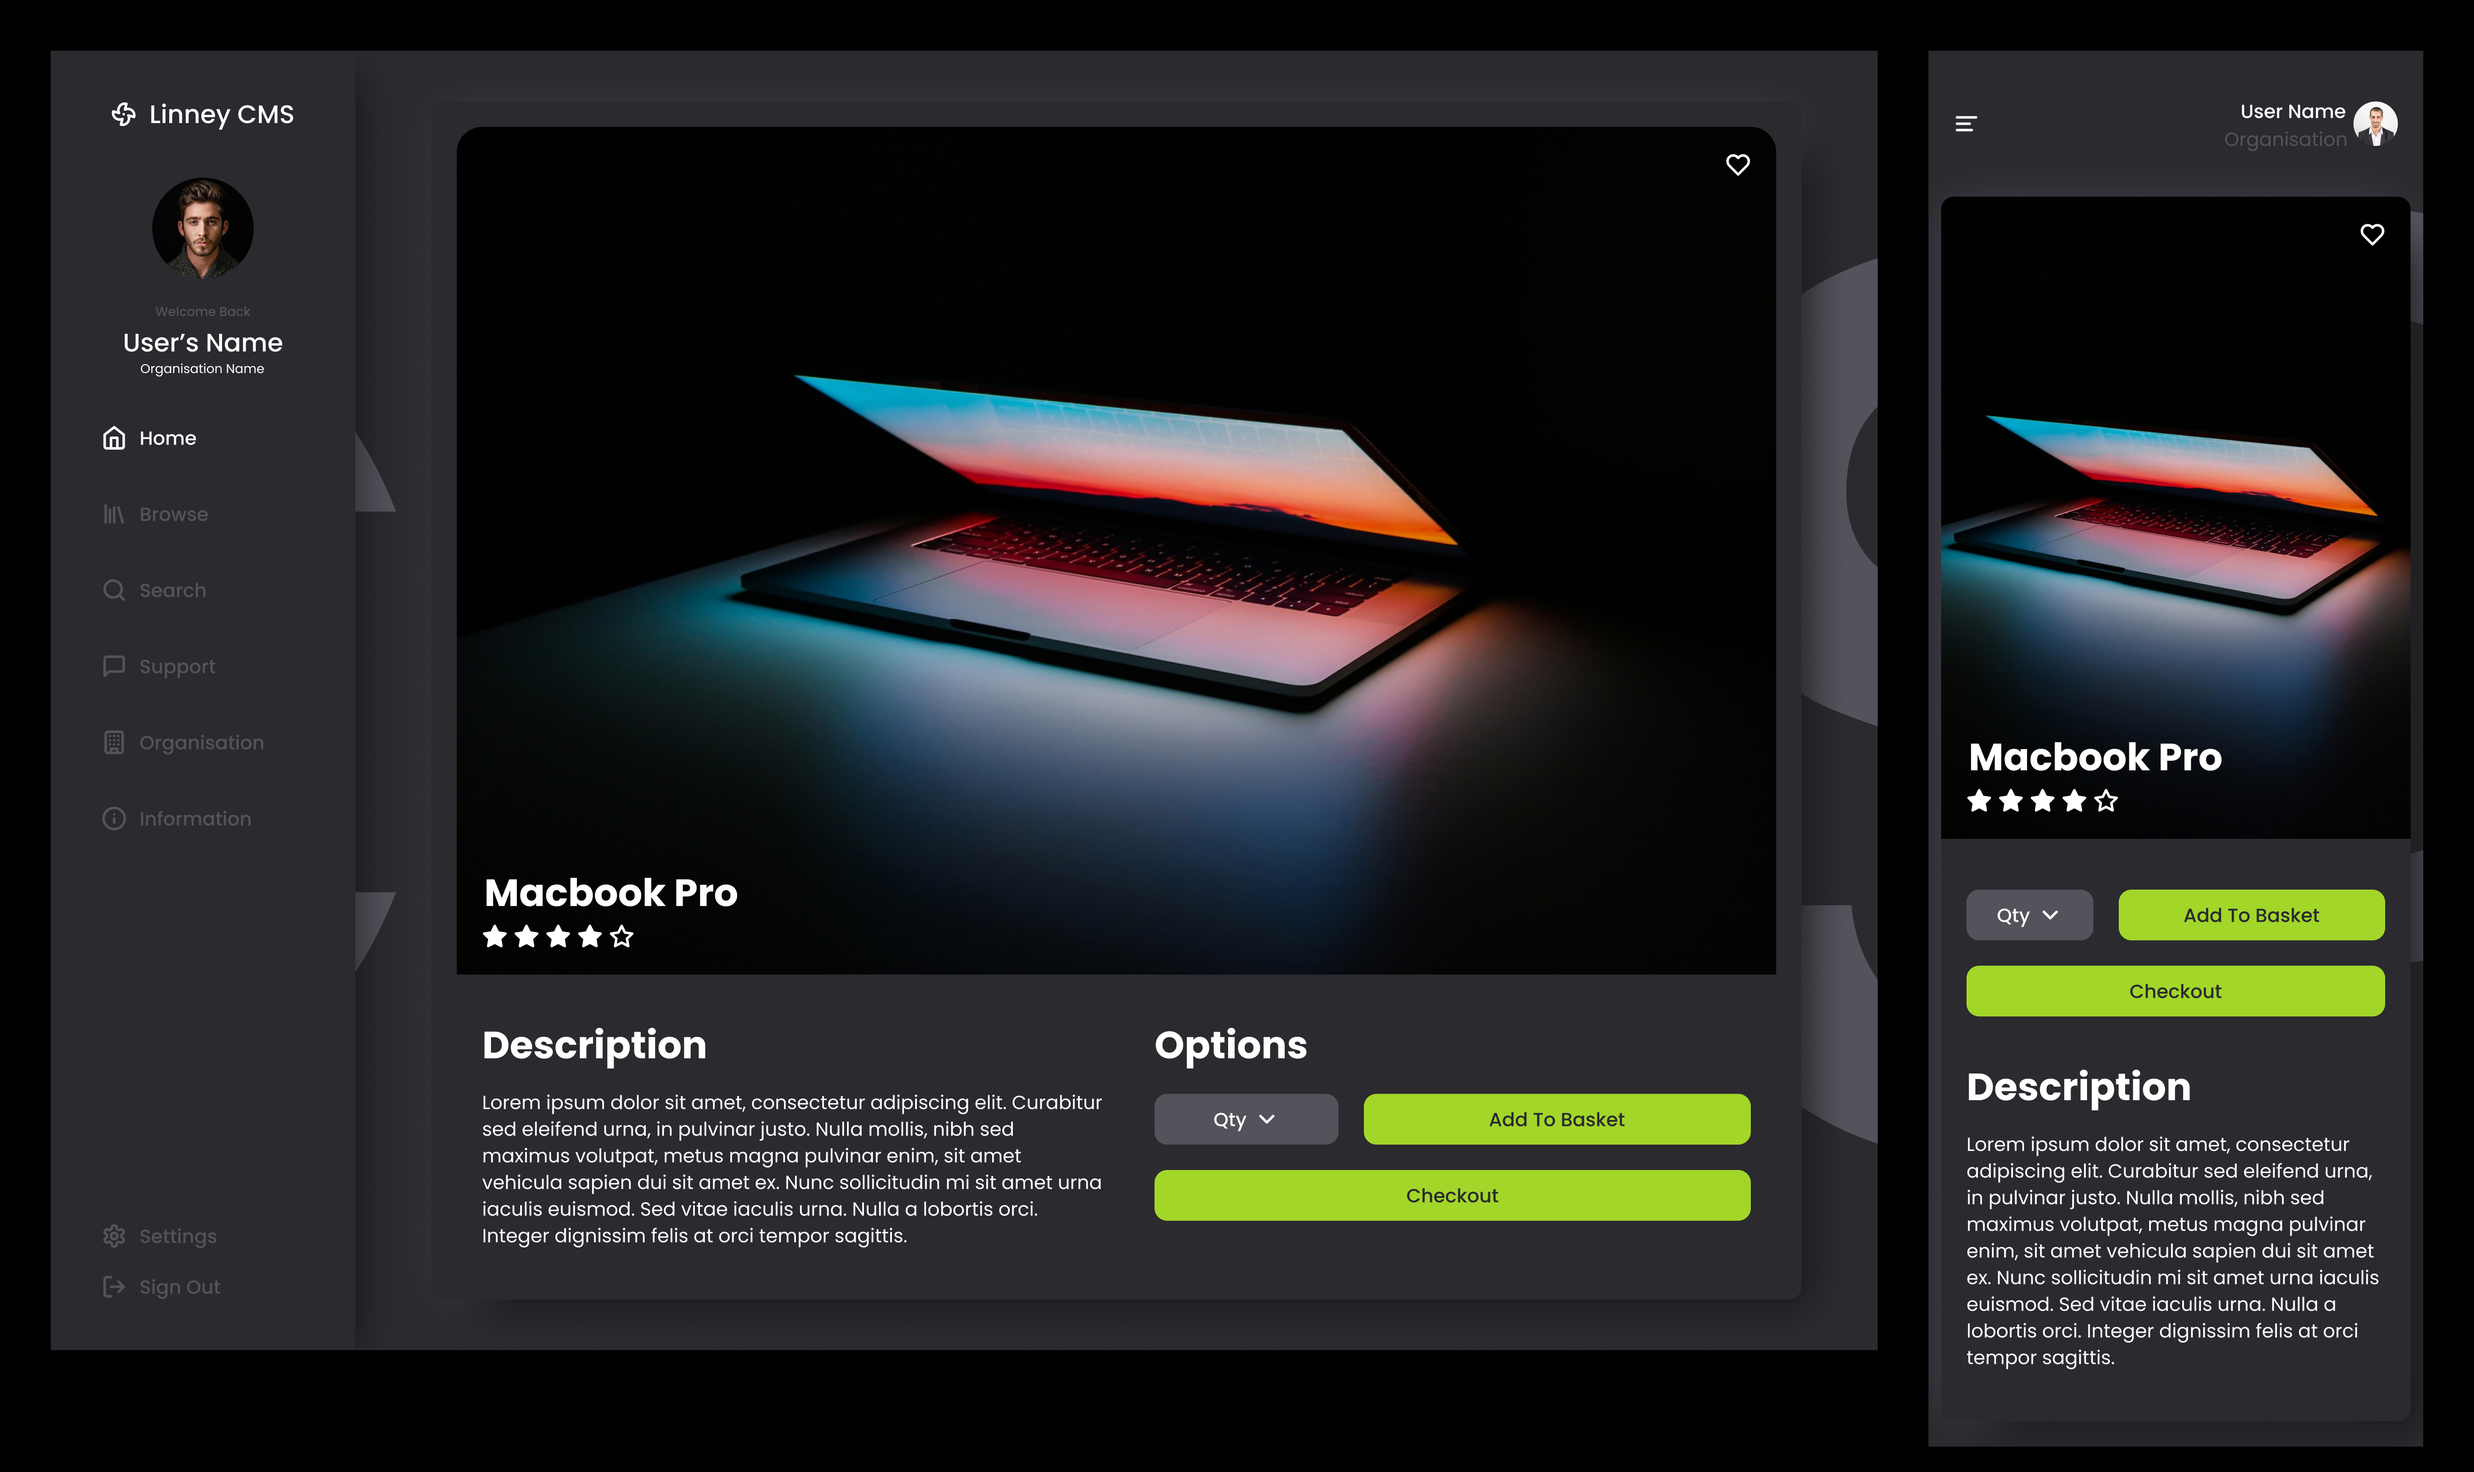
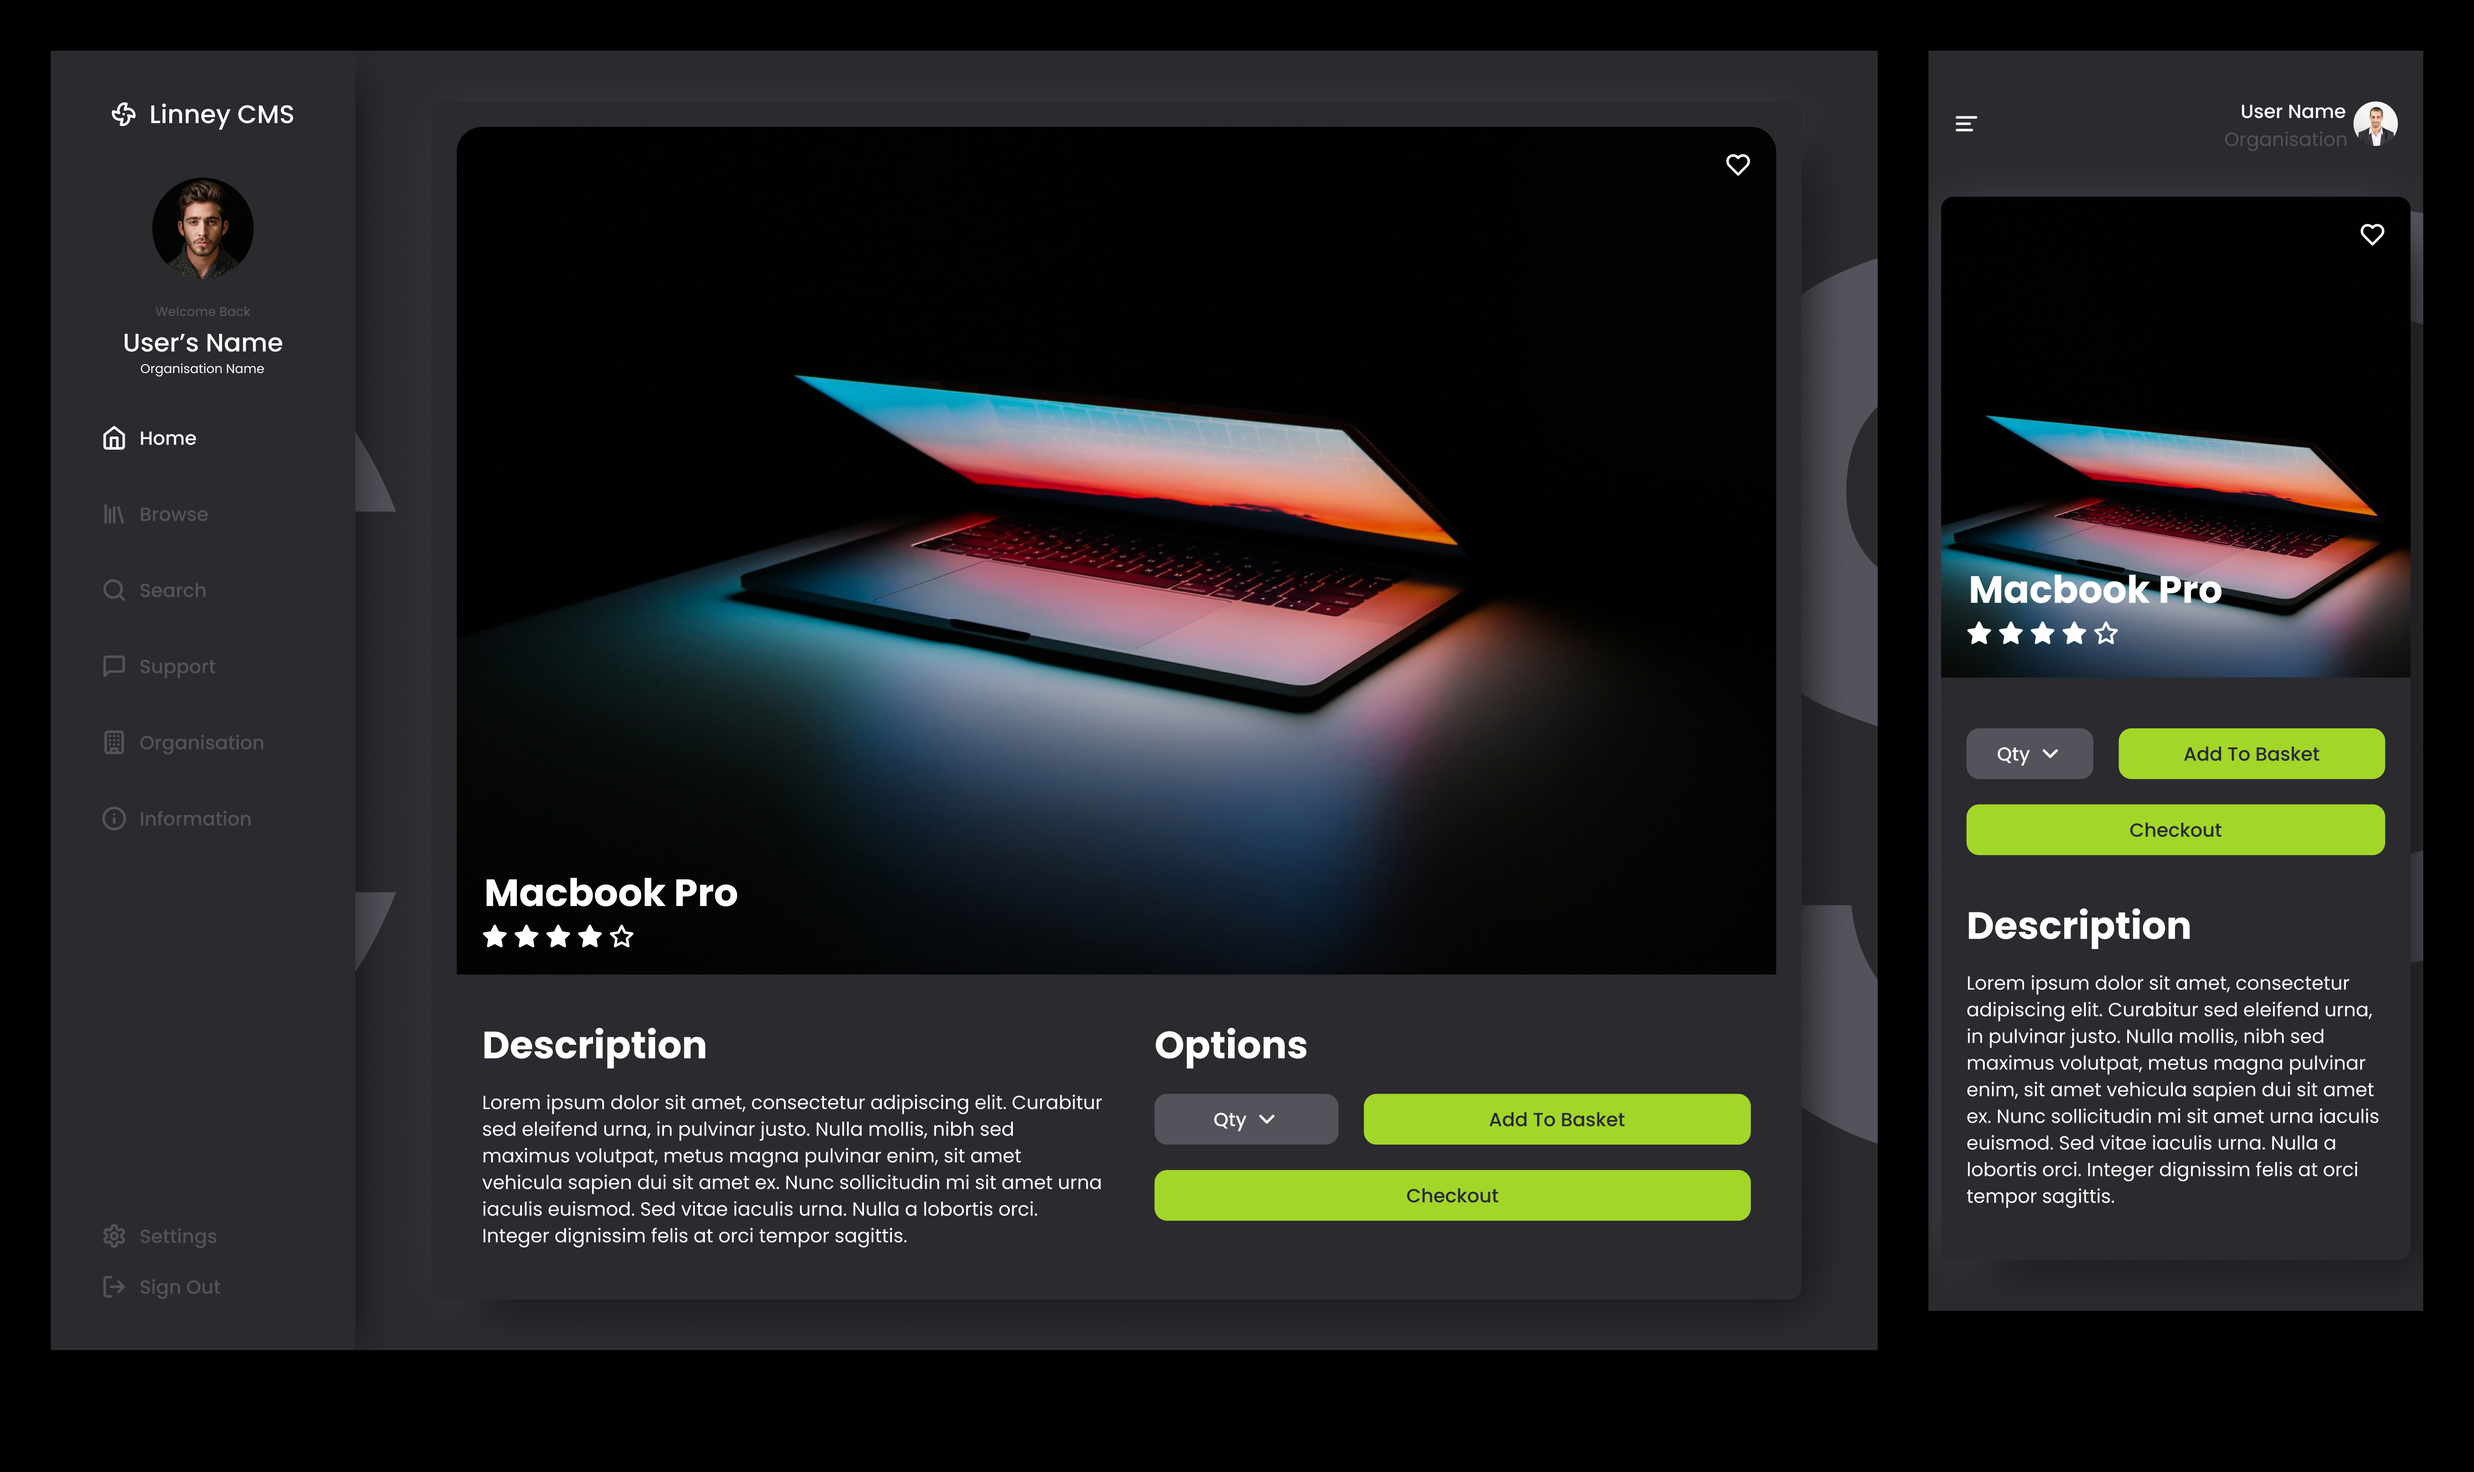
Browse and Search Designed

Changed region(s): [[0.7778, 0.3724, 0.9956, 0.9931]]

diff --git a/README.md b/README.md
@@ -27,4 +27,8 @@ Dashboard pretty much remade but I'm having the stupidest error I've ever seen i
 
 Fixed it by redesigning the skeleton into vertical segments - I was still using horizontal segments from my previous design. Now it's very responsive except for the square cards and the desktop nav needs to be ported to smaller screen sizes. I wish CSS had an option to set width to height or otherwise - it'd make life so much easier icl.
 
-Finished designing the product page - first time I'm actually content with my product page design; sually they aren't eye-engaging. It turned out very different to the first few designs: I was actually contemplating a design inspired by Indeed with the all the items on the left and the item-specific details on the right. Then, however, I saw a beautiful design on Dribble which had custom fonts (or maybe a flattened text on Figma, edited and exported as SVG) which led me to the current product page design, but without the custom fonts (It's not in my design system and I can't just redo the rest of my designs anymore). I did use bold for once though
+Finished designing the product page - first time I'm actually content with my product page design; sually they aren't eye-engaging. It turned out very different to the first few designs: I was actually contemplating a design inspired by Indeed with the all the items on the left and the item-specific details on the right. Then, however, I saw a beautiful design on Dribble which had custom fonts (or maybe a flattened text on Figma, edited and exported as SVG) which led me to the current product page design, but without the custom fonts (It's not in my design system and I can't just redo the rest of my designs anymore). I did use bold for once though.
+
+The Discover Page will just be a collection of the items available to rent - I'm not about to make a faux neural net (or an actual one for that matter) - the last time I made one I figured that the systemis only as good as the tags associated with each item. Anyway, this is why there is nothing special about the page.
+
+I also changed the size of the picture on the mobile page to be 50% of the entire container - last time it was just slapped on. I think it would have looked nicer at 2/3s butit might not show the CTA buttons in the first 100vh which means the user would have o scroll etc etc
